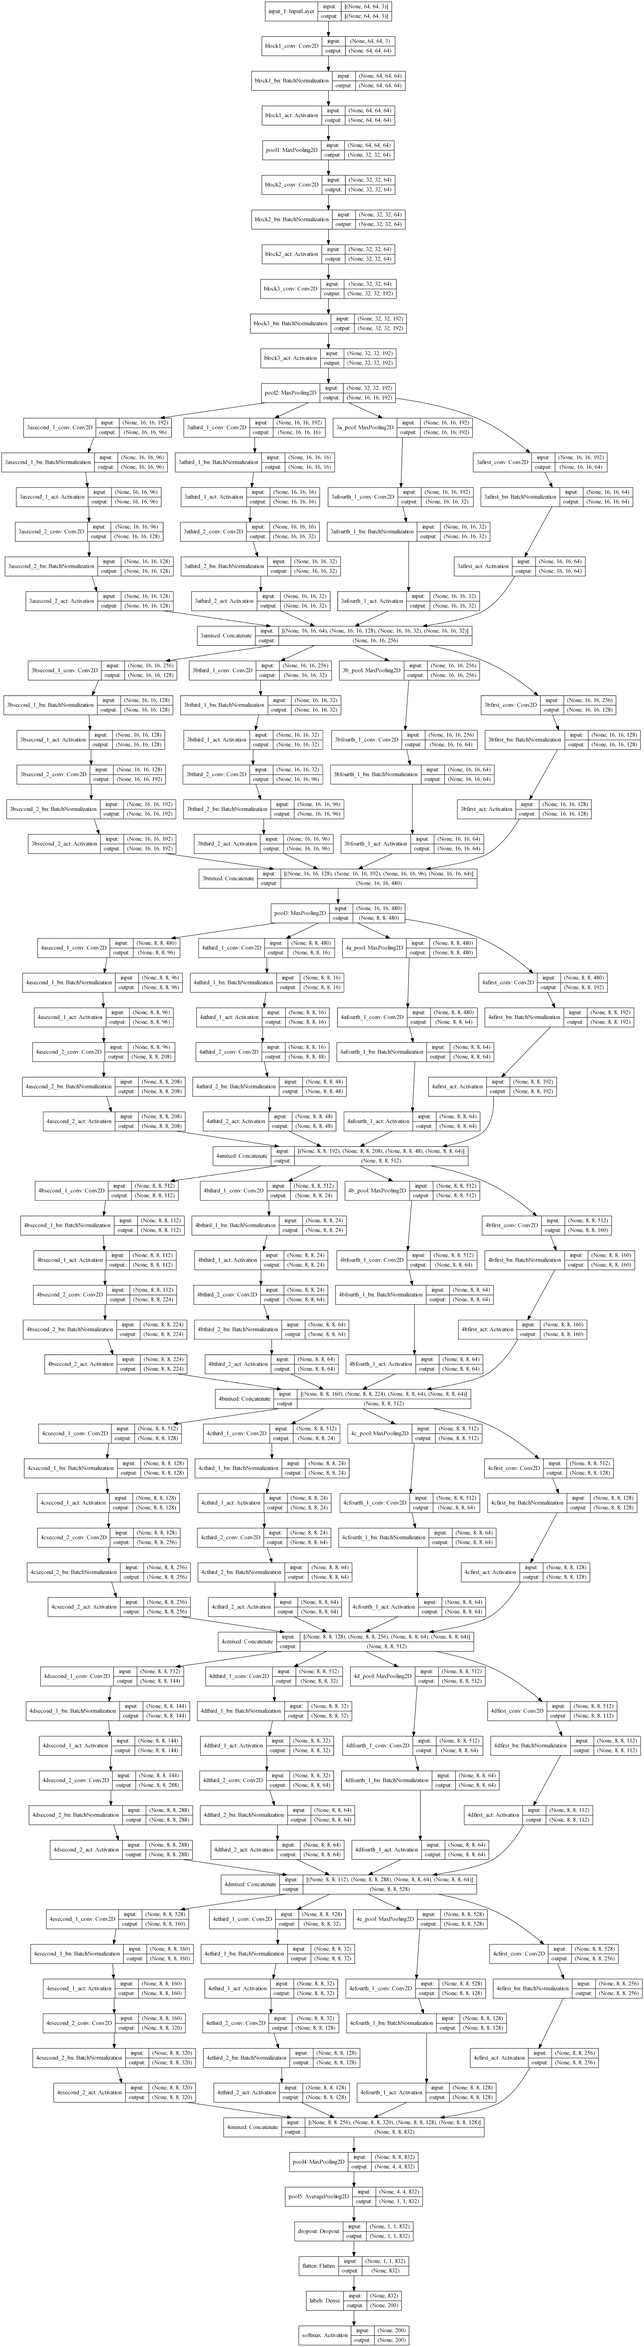
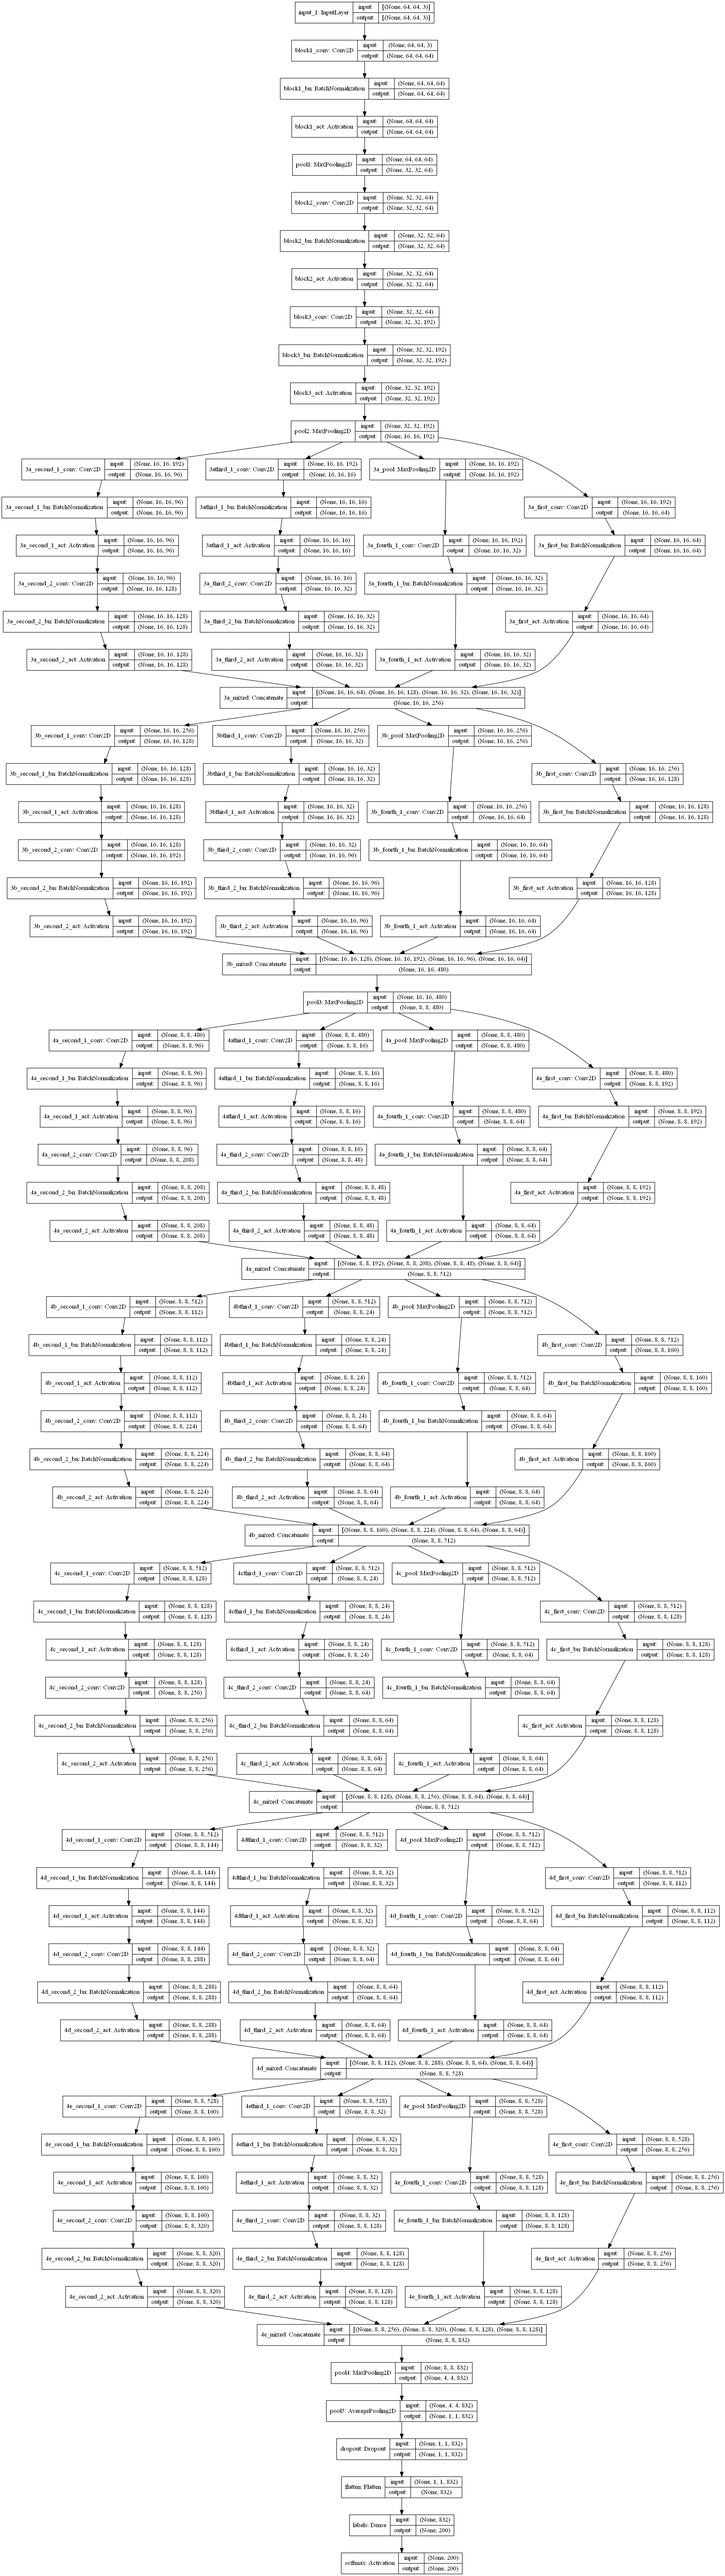
update

diff --git a/2020-12-10-deepergooglenet/pyimagesearch/nn/conv/DeeperGoogLeNet.py b/2020-12-10-deepergooglenet/pyimagesearch/nn/conv/DeeperGoogLeNet.py
@@ -40,19 +40,19 @@ class DeeperGoogLeNet:
         """
 
         def layer(x):
-            x_1 = DeeperGoogLeNet.conv_module(depth1x1, (1, 1), (1, 1), chanDim, reg=reg, name=stage+"first")(x)
+            x_1 = DeeperGoogLeNet.conv_module(depth1x1, (1, 1), (1, 1), chanDim, reg=reg, name=stage+"_first")(x)
 
-            x_2 = DeeperGoogLeNet.conv_module(depth3x3Reduce, (1, 1), (1, 1), chanDim, reg=reg, name=stage+"second_1")(x)
-            x_2 = DeeperGoogLeNet.conv_module(depth3x3, (3, 3), (1, 1), chanDim, reg=reg, name=stage+"second_2")(x_2)
+            x_2 = DeeperGoogLeNet.conv_module(depth3x3Reduce, (1, 1), (1, 1), chanDim, reg=reg, name=stage+"_second_1")(x)
+            x_2 = DeeperGoogLeNet.conv_module(depth3x3, (3, 3), (1, 1), chanDim, reg=reg, name=stage+"_second_2")(x_2)
 
             x_3 = DeeperGoogLeNet.conv_module(depth5x5Reduce, (1, 1), (1, 1), chanDim, reg=reg, name=stage+"third_1")(x)
-            x_3 = DeeperGoogLeNet.conv_module(depth5x5, (5, 5), (1, 1), chanDim, reg=reg, name=stage+"third_2")(x_3)
+            x_3 = DeeperGoogLeNet.conv_module(depth5x5, (5, 5), (1, 1), chanDim, reg=reg, name=stage+"_third_2")(x_3)
 
             x_4 = MaxPool2D((3, 3), strides=(1, 1), padding="same", name=stage+"_pool")(x)
             x_4 = DeeperGoogLeNet.conv_module(depth1x1Proj, (1, 1), (1, 1), chanDim,
-                                              reg=reg, name=stage+"fourth_1")(x_4)
+                                              reg=reg, name=stage+"_fourth_1")(x_4)
 
-            x = concatenate([x_1, x_2, x_3, x_4], axis=chanDim, name=stage+"mixed")
+            x = concatenate([x_1, x_2, x_3, x_4], axis=chanDim, name=stage+"_mixed")
             return x
 
         return layer

diff --git a/2020-12-10-deepergooglenet/_visualize_model.py b/2020-12-10-deepergooglenet/_visualize_model.py
@@ -9,11 +9,12 @@ from tensorflow.keras.models import Model
 model = DeeperGoogLeNet.build(64, 64, 3, 200)
 
 """
-Just as a review, in conv layer we use convolution of depth 64, (5,5) filter, (1,1) stride, the number of parameter is 64 * ((3*5*5) + 1) = 4864, as 
+Just as a review, in conv layer we use convolution of depth 64, (5,5) filter, 
+(1,1) stride, the number of parameter is 64 * ((3*5*5) + 1) = 4864, as 
 
     model.summary()
 
 indicated
 """
 
-plot_model(model, to_file="DeeperGoogleNet.png", dpi=350)
+plot_model(model, to_file="DeeperGoogleNet.png", dpi=96)
